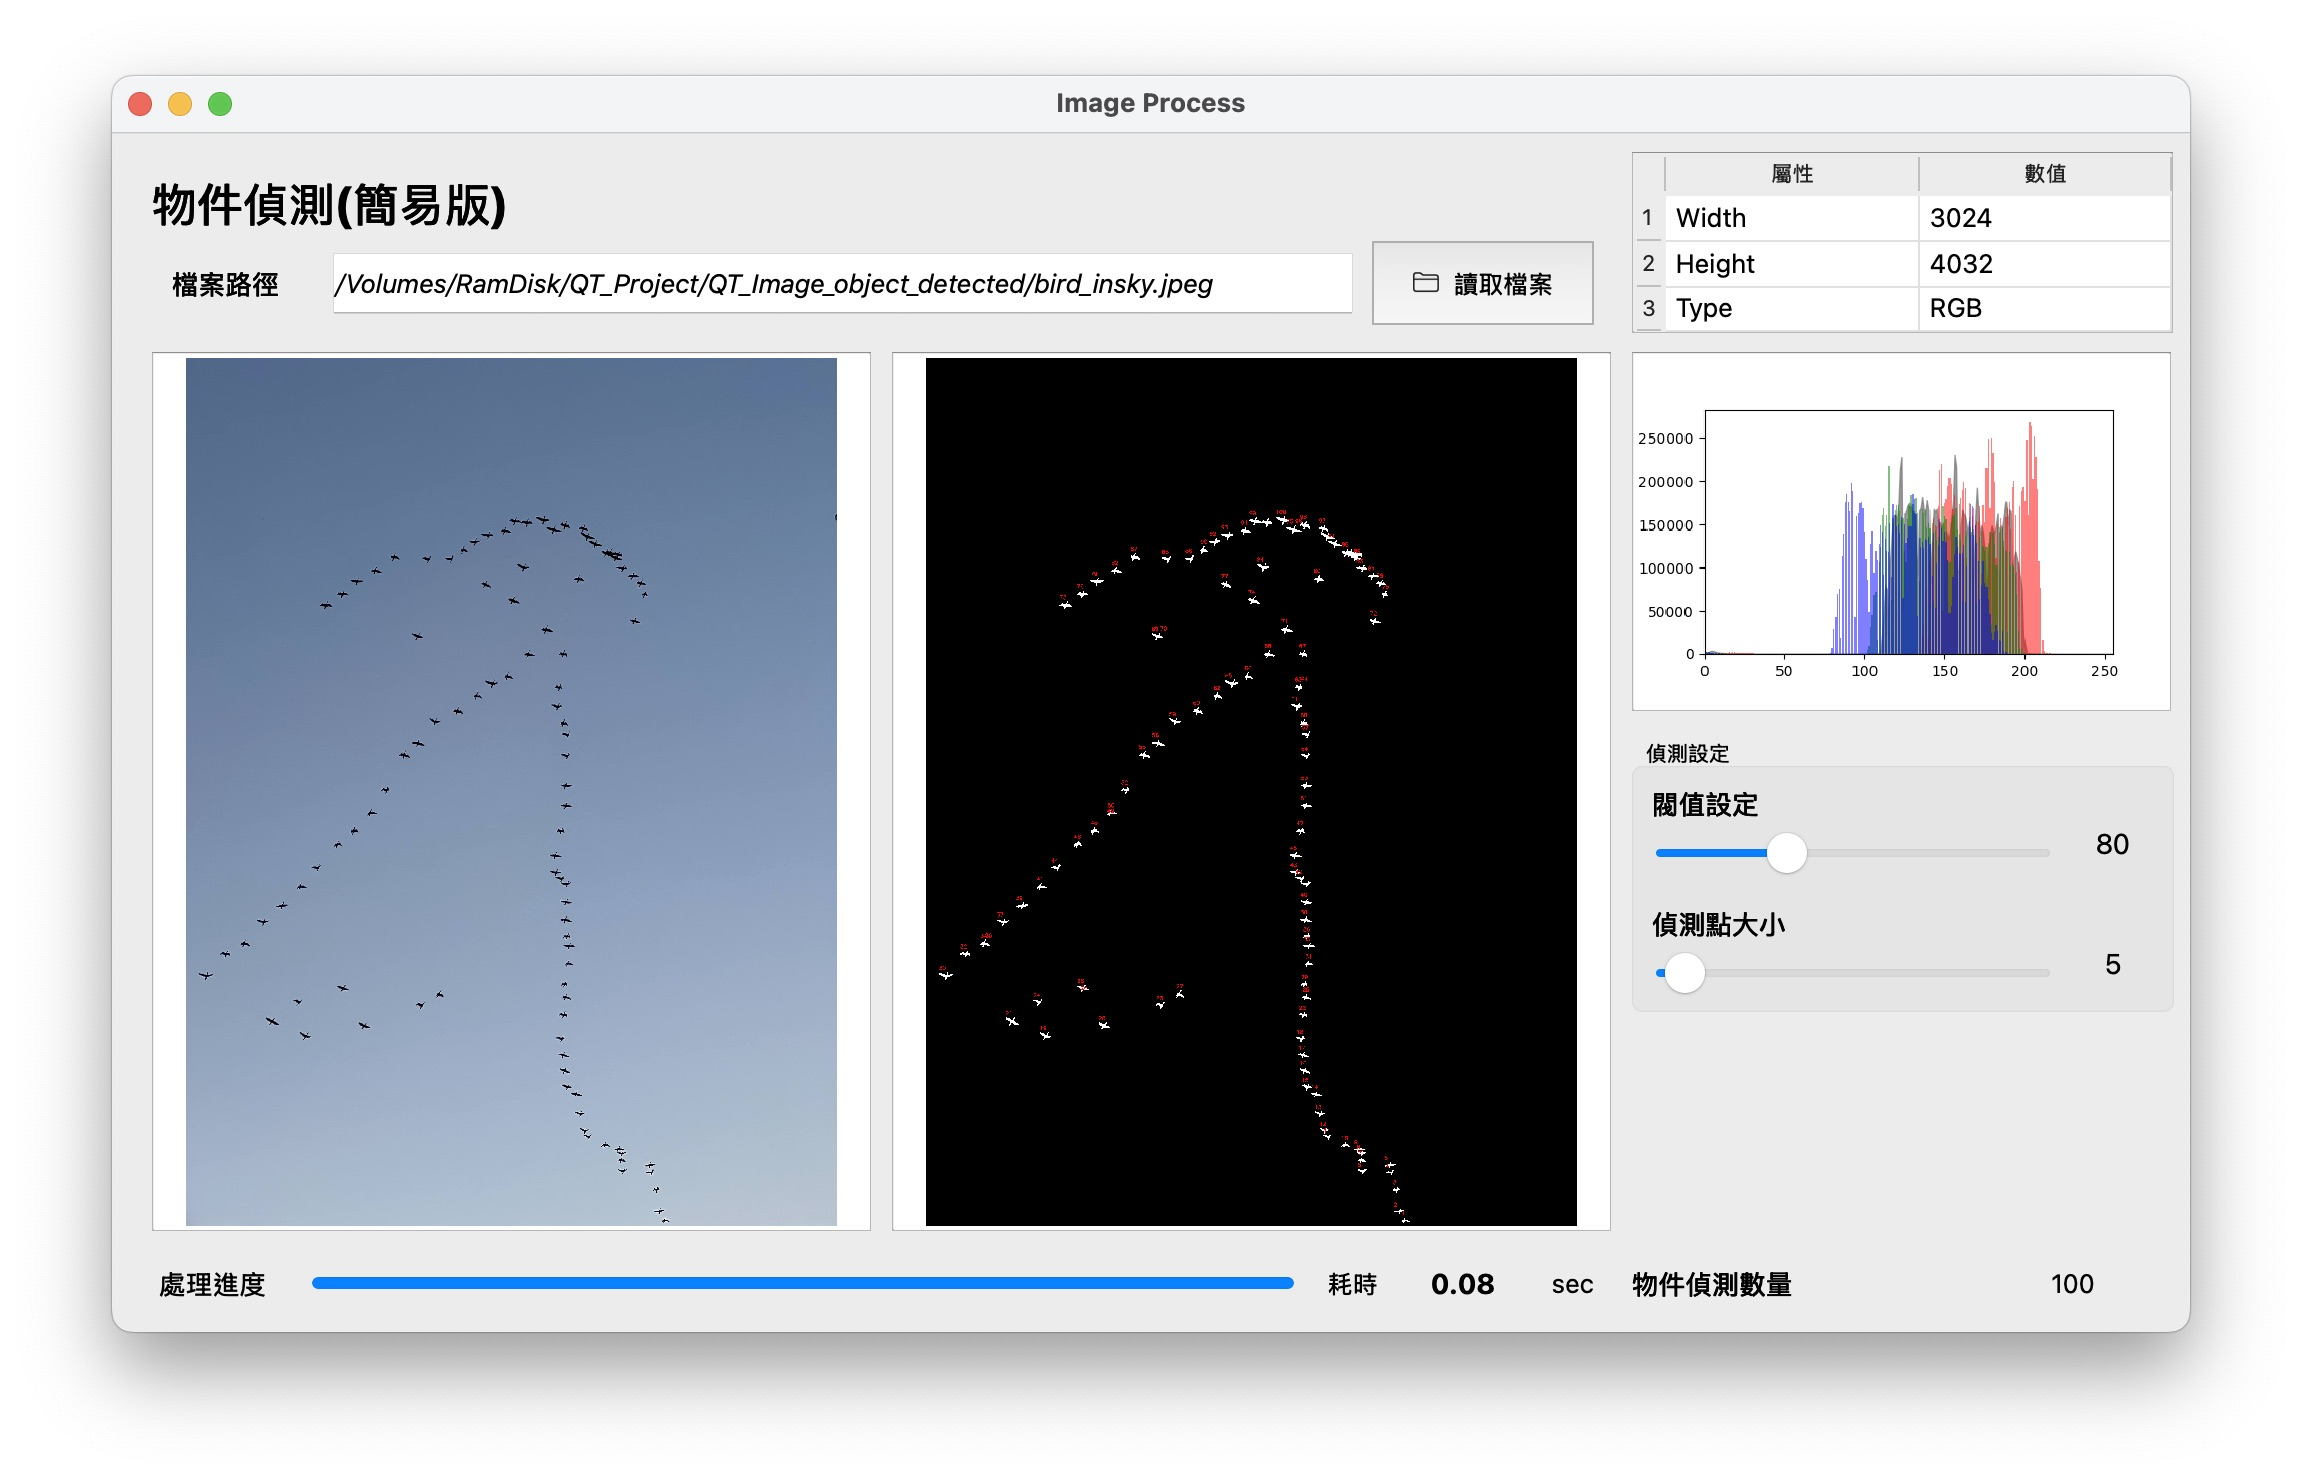
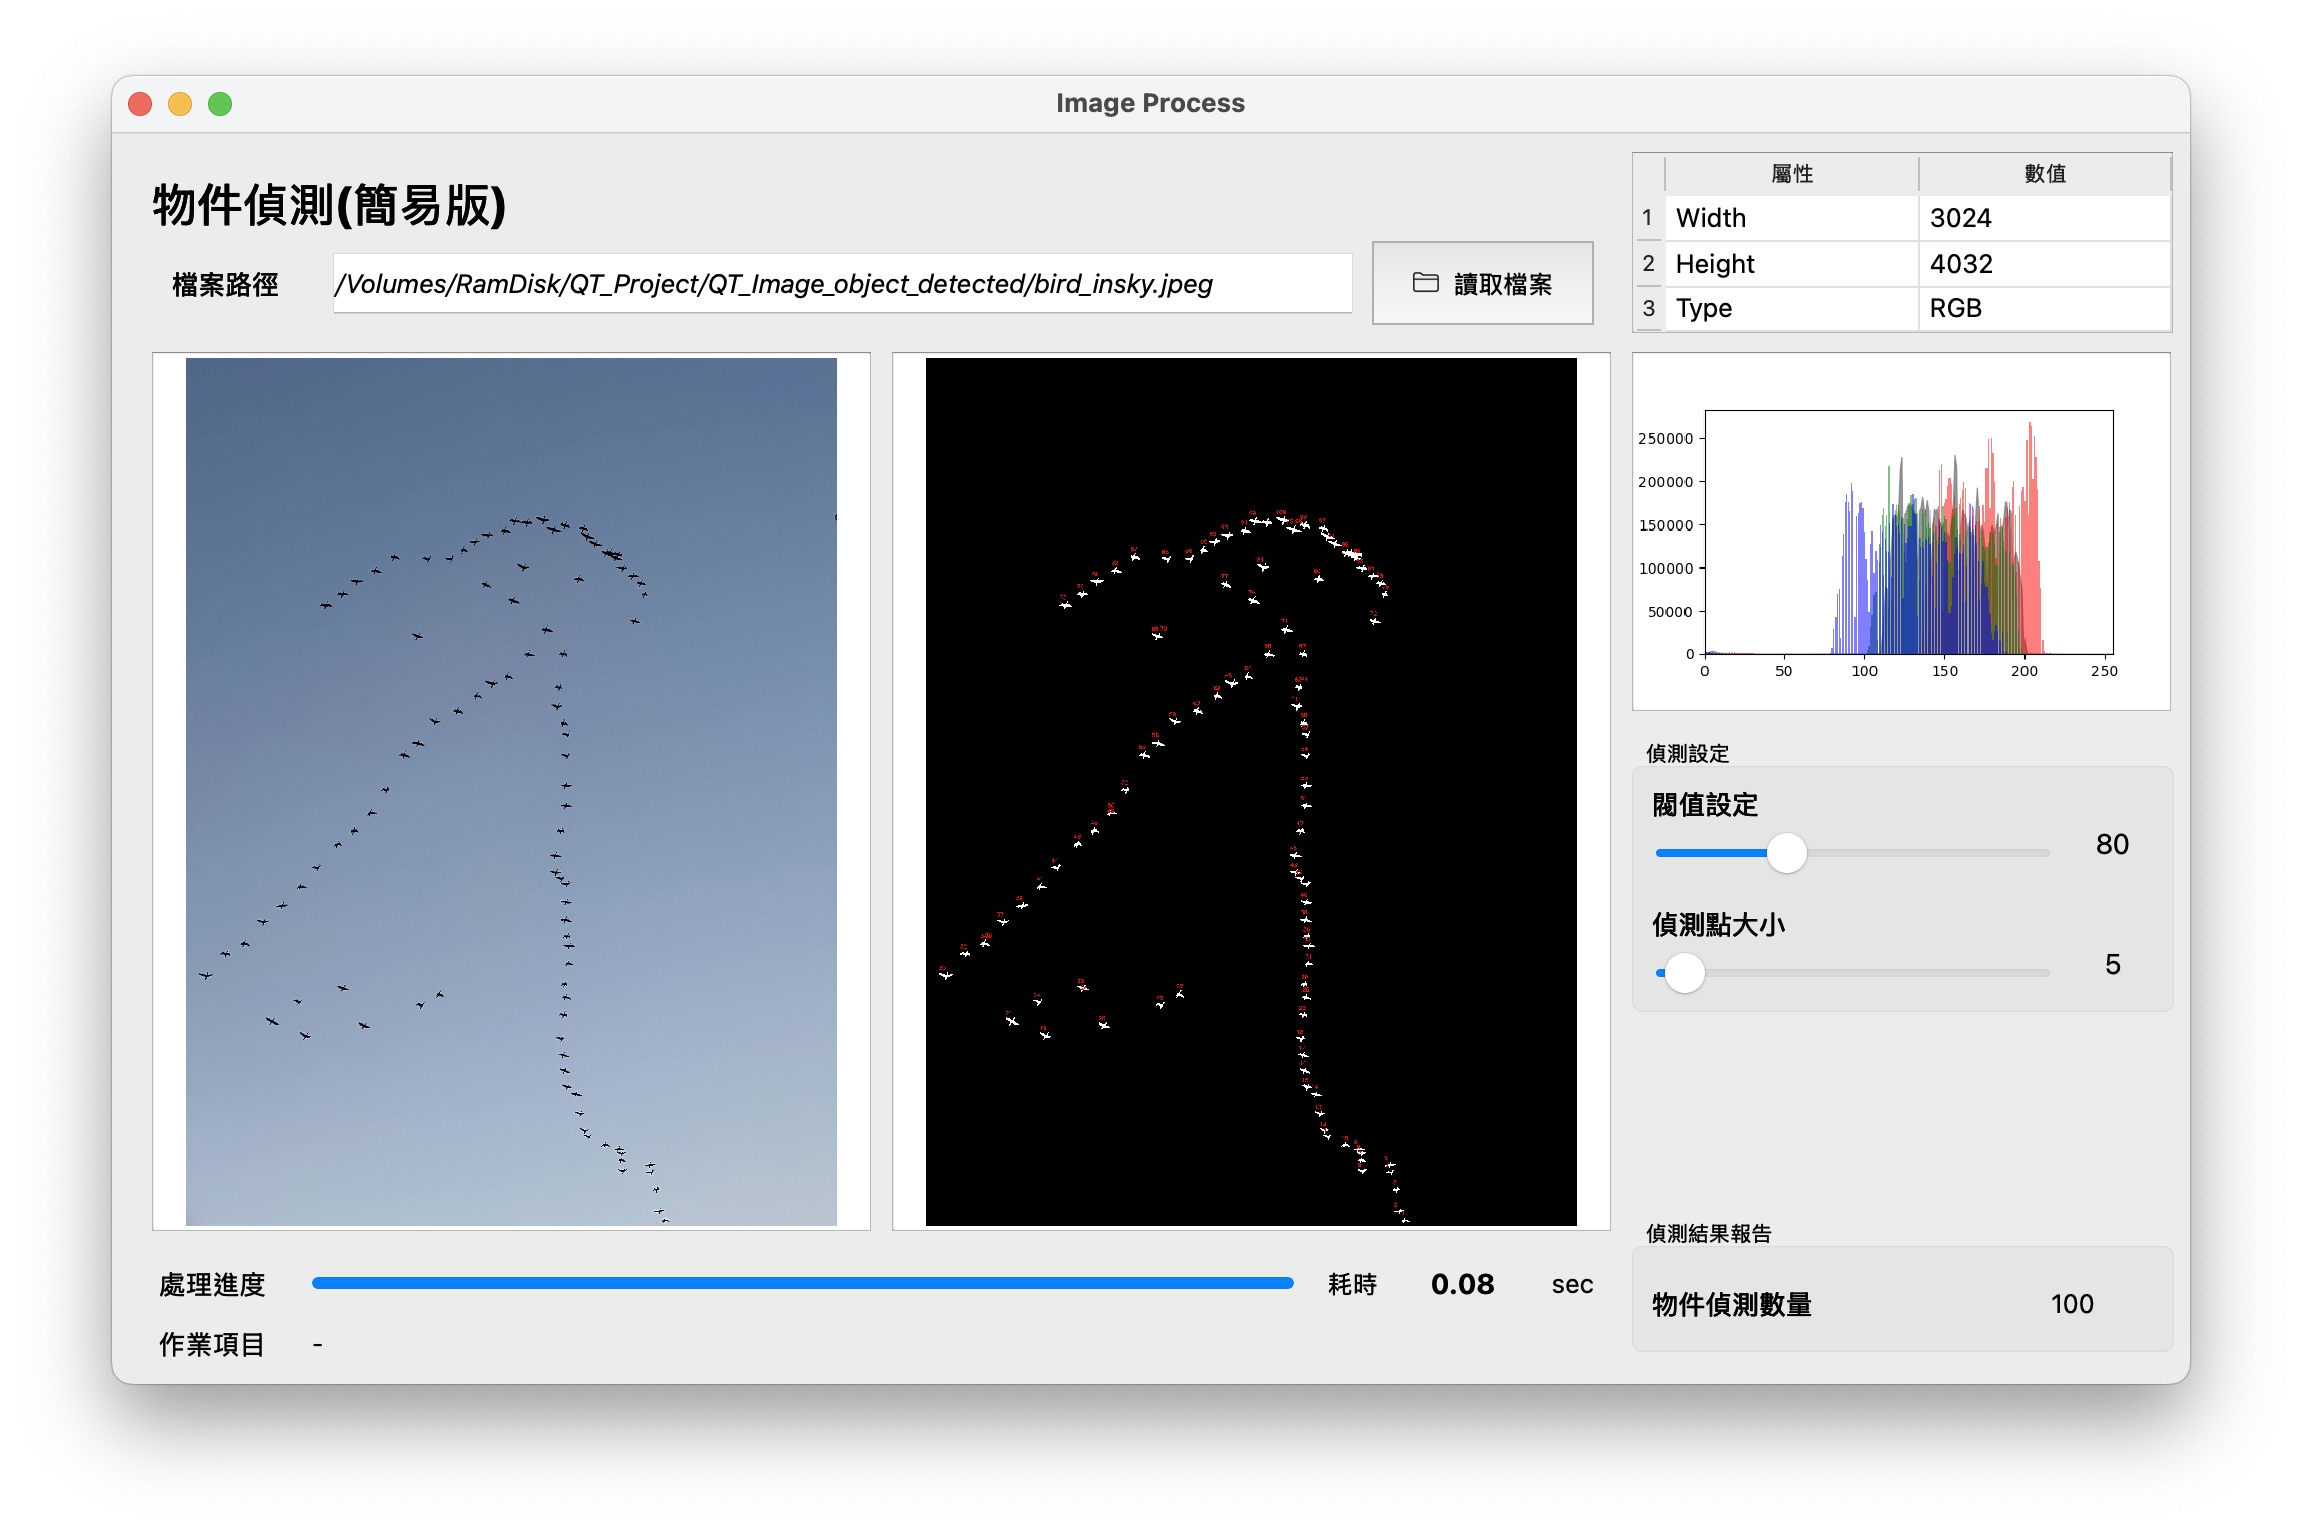
Add files via upload

diff --git a/QT_Image_object_detected/ui_form.py b/QT_Image_object_detected/ui_form.py
@@ -23,7 +23,7 @@ class Ui_Widget(object):
     def setupUi(self, Widget):
         if not Widget.objectName():
             Widget.setObjectName(u"Widget")
-        Widget.resize(1039, 600)
+        Widget.resize(1039, 626)
         self.graphicsView = QGraphicsView(Widget)
         self.graphicsView.setObjectName(u"graphicsView")
         self.graphicsView.setGeometry(QRect(20, 110, 360, 440))
@@ -74,14 +74,6 @@ class Ui_Widget(object):
         font3.setItalic(False)
         self.label_3.setFont(font3)
         self.label_3.setAlignment(Qt.AlignmentFlag.AlignCenter)
-        self.label_6 = QLabel(Widget)
-        self.label_6.setObjectName(u"label_6")
-        self.label_6.setGeometry(QRect(760, 560, 181, 31))
-        self.label_6.setFont(font1)
-        self.label_7 = QLabel(Widget)
-        self.label_7.setObjectName(u"label_7")
-        self.label_7.setGeometry(QRect(940, 560, 81, 31))
-        self.label_7.setAlignment(Qt.AlignmentFlag.AlignCenter)
         self.groupBox = QGroupBox(Widget)
         self.groupBox.setObjectName(u"groupBox")
         self.groupBox.setGeometry(QRect(760, 300, 271, 141))
@@ -127,6 +119,29 @@ class Ui_Widget(object):
         self.label_process_time.setGeometry(QRect(640, 560, 71, 31))
         self.label_process_time.setFont(font1)
         self.label_process_time.setAlignment(Qt.AlignmentFlag.AlignCenter)
+        self.label_processing_item = QLabel(Widget)
+        self.label_processing_item.setObjectName(u"label_processing_item")
+        self.label_processing_item.setGeometry(QRect(100, 590, 641, 31))
+        font5 = QFont()
+        font5.setPointSize(12)
+        font5.setItalic(False)
+        self.label_processing_item.setFont(font5)
+        self.label_13 = QLabel(Widget)
+        self.label_13.setObjectName(u"label_13")
+        self.label_13.setGeometry(QRect(20, 590, 61, 31))
+        self.label_13.setFont(font3)
+        self.label_13.setAlignment(Qt.AlignmentFlag.AlignCenter)
+        self.groupBox_2 = QGroupBox(Widget)
+        self.groupBox_2.setObjectName(u"groupBox_2")
+        self.groupBox_2.setGeometry(QRect(760, 540, 271, 71))
+        self.label_6 = QLabel(self.groupBox_2)
+        self.label_6.setObjectName(u"label_6")
+        self.label_6.setGeometry(QRect(10, 30, 181, 31))
+        self.label_6.setFont(font1)
+        self.label_7 = QLabel(self.groupBox_2)
+        self.label_7.setObjectName(u"label_7")
+        self.label_7.setGeometry(QRect(180, 30, 81, 31))
+        self.label_7.setAlignment(Qt.AlignmentFlag.AlignCenter)
 
         self.retranslateUi(Widget)
 
@@ -139,8 +154,6 @@ class Ui_Widget(object):
         self.label_2.setText(QCoreApplication.translate("Widget", u"\u6a94\u6848\u8def\u5f91", None))
         self.pushButton.setText(QCoreApplication.translate("Widget", u"\u8b80\u53d6\u6a94\u6848", None))
         self.label_3.setText(QCoreApplication.translate("Widget", u"\u8655\u7406\u9032\u5ea6", None))
-        self.label_6.setText(QCoreApplication.translate("Widget", u"\u7269\u4ef6\u5075\u6e2c\u6578\u91cf", None))
-        self.label_7.setText(QCoreApplication.translate("Widget", u"0", None))
         self.groupBox.setTitle(QCoreApplication.translate("Widget", u"\u5075\u6e2c\u8a2d\u5b9a", None))
         self.label_4.setText(QCoreApplication.translate("Widget", u"\u95a5\u503c\u8a2d\u5b9a", None))
         self.label_5.setText(QCoreApplication.translate("Widget", u"80", None))
@@ -149,5 +162,10 @@ class Ui_Widget(object):
         self.label_10.setText(QCoreApplication.translate("Widget", u"\u8017\u6642", None))
         self.label_11.setText(QCoreApplication.translate("Widget", u"sec", None))
         self.label_process_time.setText(QCoreApplication.translate("Widget", u"-", None))
+        self.label_processing_item.setText(QCoreApplication.translate("Widget", u"-", None))
+        self.label_13.setText(QCoreApplication.translate("Widget", u"\u4f5c\u696d\u9805\u76ee", None))
+        self.groupBox_2.setTitle(QCoreApplication.translate("Widget", u"\u5075\u6e2c\u7d50\u679c\u5831\u544a", None))
+        self.label_6.setText(QCoreApplication.translate("Widget", u"\u7269\u4ef6\u5075\u6e2c\u6578\u91cf", None))
+        self.label_7.setText(QCoreApplication.translate("Widget", u"0", None))
     # retranslateUi
 

diff --git a/QT_Image_object_detected/widget.py b/QT_Image_object_detected/widget.py
@@ -53,6 +53,7 @@ class Widget(QWidget):
         self.ui.label_9.setText(str(5))
 
         self.ui.label_process_time.setText("-")
+        self.ui.label_processing_item.setText("-")
 
         self.ui.horizontalSlider.setMinimum(0)
         self.ui.horizontalSlider.setMaximum(255)
@@ -81,25 +82,29 @@ class Widget(QWidget):
         """選擇圖片並顯示在 graphicsView"""
         total_counter= 0
         self.ui.label_7.setText(str(total_counter))
+        self.update_msg_in_process("圖片選擇")
         file_path, _ = QFileDialog.getOpenFileName(self, "選擇圖片", "", "Images (*.png *.jpg *.bmp *.jpeg)")
-
         if file_path:
-            # 在 lineEdit 顯示圖片路徑
+            # 在 lineEdit 顯示圖片路徑            
             self.ui.lineEdit.setText(file_path)
 
             # 使用 OpenCV 讀取圖片
+            self.update_msg_in_process("讀取圖片："+file_path)
             img = cv2.imread(file_path)
 
             if img is None:
+                self.update_msg_in_process("讀取圖片失敗："+file_path)
                 print("無法讀取圖片")
                 return
 
             # **轉換 BGR → RGB**
+            self.update_msg_in_process("圖片初始化：色彩格式轉換...")
             img = cv2.cvtColor(img, cv2.COLOR_BGR2RGB)
             self.img_input_buffer = img.copy()
             self.update_image_profile(img)
 
             # 取得圖片資訊
+            self.update_msg_in_process("圖片初始化：取得圖片基本資訊...")
             height, width, channel = img.shape  # (高度, 寬度, 通道數)
             if (channel == 3):
                 img_type = "RGB"
@@ -138,7 +143,7 @@ class Widget(QWidget):
                 ("Type", img_type)
             ])
 
-
+            self.update_msg_in_process("圖片處理：預覽處理...")
             self.ImageView(img)
             self.ui.progressBar.setValue(100)
 
@@ -153,12 +158,18 @@ class Widget(QWidget):
     def update_timer_in_process(self,finished_time):
         # print(f">>>>>finished time = {finished_time}")
         self.ui.label_process_time.setText(str(finished_time))
+        self.update_msg_in_process("-")
+
+    def update_msg_in_process(self,msg):
+        # print(f">>>>>finished time = {finished_time}")
+        self.ui.label_processing_item.setText(str(msg))
 
 
     def ImageView(self, img):
         start_time = time.time()
         self.ui.progressBar.setValue(0)
         # fig = ip.ImageBinary(img,'normal')
+        self.update_msg_in_process("圖片處理：處理中")
         fig , total_counter = ip.object_detected(img,self.getHorizontalSlider(),self.getHorizontalSlider_2())
 
         height, width, channel = fig.shape  # (高度, 寬度, 通道數)
@@ -184,7 +195,7 @@ class Widget(QWidget):
 
         self.ui.label_7.setText(str(total_counter))
         self.ui.progressBar.setValue(100)
-
+        self.update_msg_in_process("圖片處理：處理完畢")
         end_time = time.time()
         elapsed_time = round(end_time - start_time, 2)
         self.update_timer_in_process(elapsed_time)
